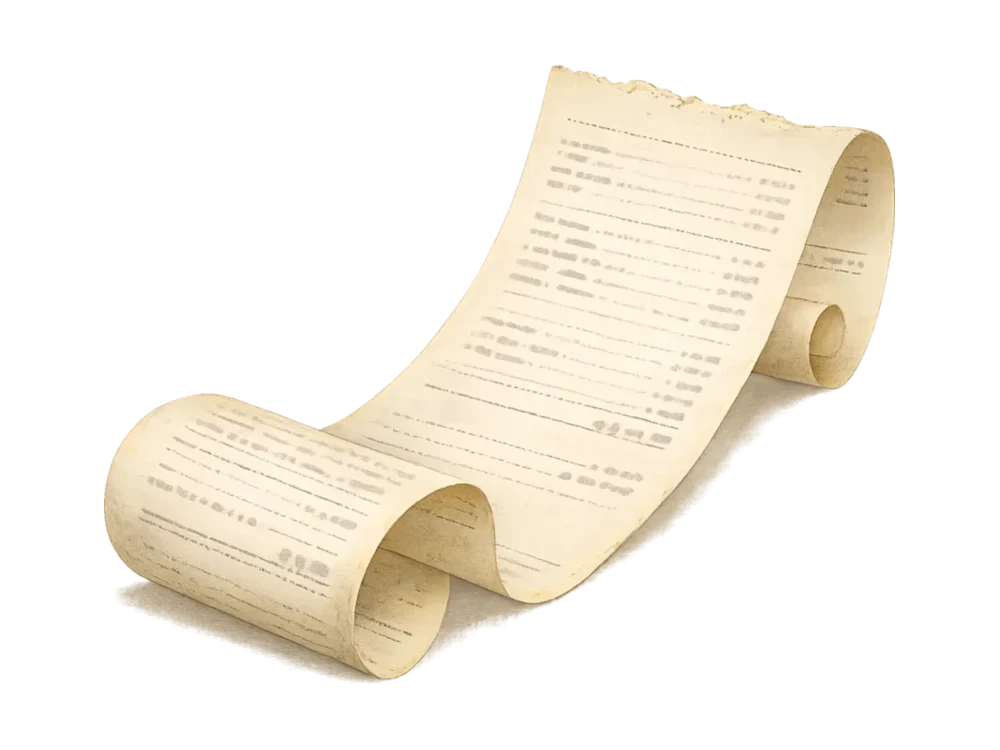
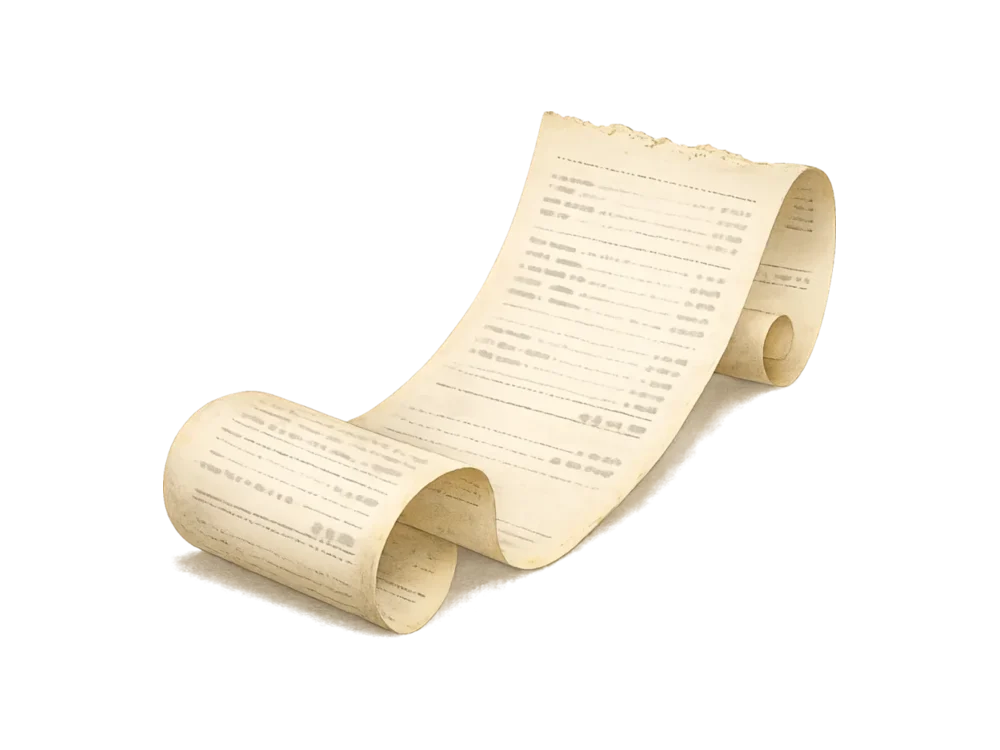
wip

diff --git a/index.html b/index.html
@@ -6,12 +6,12 @@
     <title>Emma — One inbox. Empty.</title>
     <meta
       name="description"
-      content="Opinionated email for iPhones. One week free. Then $2.99/mo."
+      content="Email for iPhones. One week free. Then $2.99/mo."
     />
     <meta property="og:title" content="Emma — One inbox. Empty." />
     <meta
       property="og:description"
-      content="Opinionated email for iPhones. One week free. Then $2.99/mo."
+      content="Email for iPhones. One week free. Then $2.99/mo."
     />
     <meta name="twitter:card" content="summary_large_image" />
     <meta property="og:type" content="website" />
@@ -785,7 +785,7 @@
     <div class="spine">
       <section class="hero" id="top">
         <div>
-          <p class="label">Opinionated email for iPhones</p>
+          <p class="label">Email for iPhones</p>
           <h1>One inbox.<br />Empty.</h1>
 
           <p class="hero-blurb">
